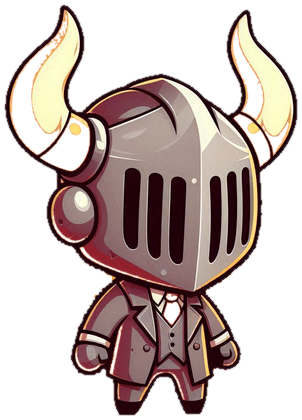
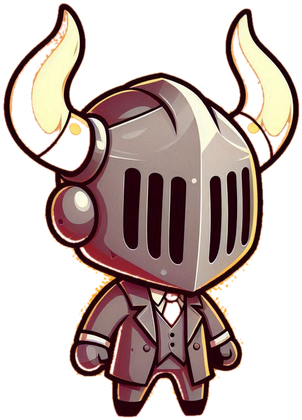
Put the mascot on a light plate instead of cutting it out
The illustration is semi-transparent through about a fifth of the figure
and was drawn against white. On the navy card the background bled through
the suit and horns.

Three passes at making it a clean cutout all failed, each differently:
hard-thresholding the alpha ate the anti-aliased edge; flattening on white
left it solid but paler than the art, since white is baked into those
pixels; un-premultiplying to recover the true colour blew out the horn
interiors, which sit at too low an alpha to have any colour left.

So stop fighting it. The artwork is restored untouched and now sits on a
light rounded panel inside the navy card — the same treatment the helmet
mark already gets higher up the page. It gets the white it was drawn for,
and reads exactly as the artist made it.

Also stacks the block under 560px. It was never in a media query, so the
mascot and copy stayed side by side even at 375px, breaking the heading
after every word or two. The wider plate made that obvious.

The plate can go once the mascot is supplied fully opaque or as vector.

diff --git a/site/assets/styles.css b/site/assets/styles.css
@@ -306,13 +306,25 @@ details[open] summary::after{content:"–"}
   background:linear-gradient(140deg,rgba(15,39,71,.72),rgba(10,22,40,.72));
   padding:clamp(26px,3.6vw,42px);position:relative;overflow:hidden
 }
-.knight-fig{position:relative;flex:none;width:clamp(120px,15vw,180px)}
-.knight-fig::after{
-  content:"";position:absolute;left:50%;bottom:-6px;transform:translateX(-50%);
-  width:78%;height:16px;border-radius:50%;background:rgba(0,0,0,.5);filter:blur(9px)
+/* The mascot sits on a light plate rather than straight on the navy card.
+   The illustration is semi-transparent through roughly a fifth of the figure
+   and was drawn against white, so on navy the background bleeds through the
+   suit and horns. Every attempt to flatten it either washed the colour out
+   (white is baked into those pixels) or smeared the horn interiors, which
+   have no recoverable colour left. Giving it the white it expects keeps the
+   art exactly as drawn — and matches how the helmet mark sits in its own
+   panel higher up the page. Keep this plate if the artwork stays as-is;
+   it can go once the mascot is supplied fully opaque or as vector. */
+.knight-fig{
+  position:relative;flex:none;width:clamp(150px,18vw,215px);
+  background:linear-gradient(160deg,#FFFFFF,#E7EDF4);
+  border:1px solid rgba(255,255,255,.16);
+  border-radius:var(--r-lg);
+  padding:clamp(12px,1.6vw,20px) clamp(12px,1.6vw,20px) 0;
+  box-shadow:0 18px 40px -18px rgba(0,0,0,.62)
 }
-.knight-fig img{position:relative;z-index:1;width:100%;
-  filter:drop-shadow(0 16px 30px rgba(0,0,0,.55))}
+.knight-fig img{display:block;width:100%}
+body.day .knight-fig{border-color:#D6E0EB;box-shadow:0 14px 30px -18px rgba(16,38,64,.34)}
 .knight h3{font-size:clamp(21px,2.7vw,30px);margin-bottom:12px}
 .knight p{color:var(--silver);margin-bottom:0}
 body.day .knight{background:linear-gradient(140deg,#fff,#EEF4FA);border-color:#D6E0EB}
@@ -377,6 +389,10 @@ body.day .pod p{color:#4C6178}
 @media(max-width:560px){
   .g4,.f-row{grid-template-columns:1fr}
   .foot-grid{grid-template-columns:1fr}
+  /* Side by side, the mascot plate leaves too little room for the copy and the
+     heading breaks after every word or two. Stack instead. */
+  .knight{grid-template-columns:1fr;gap:22px}
+  .knight-fig{width:min(160px,44vw)}
 }
 @media(prefers-reduced-motion:reduce){
   *{animation-duration:.01ms!important;transition-duration:.01ms!important}
